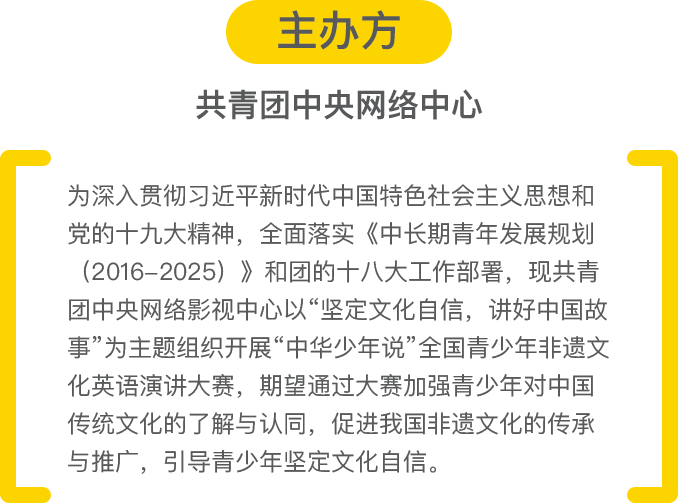
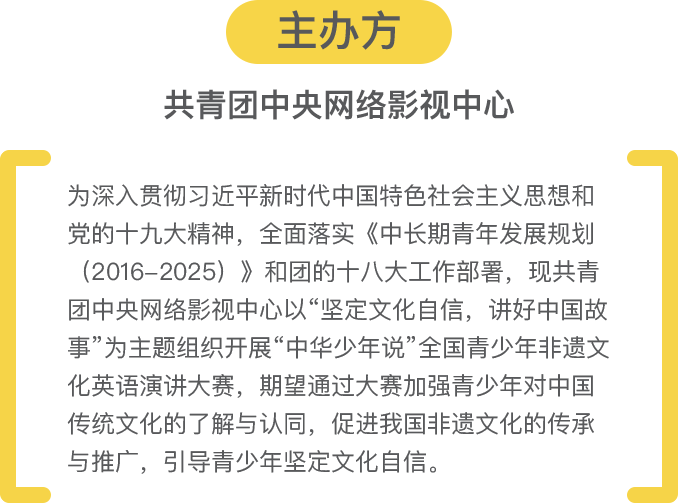
mod font

diff --git a/src/scss/index.scss b/src/scss/index.scss
@@ -85,8 +85,8 @@
     }
 
     .logo{
-        width: pxToRem(629px);
-        height: pxToRem(573px);
+        width: pxToRem(624px);
+        height: pxToRem(568px);
         display: block;
         margin: pxToRem(300px) auto 0;
     }
@@ -184,13 +184,13 @@
             position: absolute;
             z-index: 1;
             right: 0;
-            left: 0;
+            left: pxToRem(-10px);
             margin: 0 auto;
             background-repeat: no-repeat;
             background-size: 100% 100%;
             width: pxToRem(294px);
             height: pxToRem(285px);
-            top: pxToRem(890px);
+            top: pxToRem(898px);
             animation: ball .5s infinite alternate;
         }
 

diff --git a/README.md b/README.md
@@ -15,6 +15,7 @@ gulp
 4. uploadVideo_2.html 页面添加初始化判断是否上传，及上传后转变成确认提交状态（uploadVideo_2.html、\static\images\uploadVideo\header3.png）
 5. 开屏进度条加载修改 （index.html、index.js）
 6. 好友助威邀请好友弹出层修改（common.js、cheerGuide.js）
+7. 首页、助威规则主办方文案修改（\static\images\index\host.png、\static\images\index\header.png、\static\images\rule\cheerRuleBackground.png、index.scss、rule.scss）
 
 
 #### 各个html对应页面：
